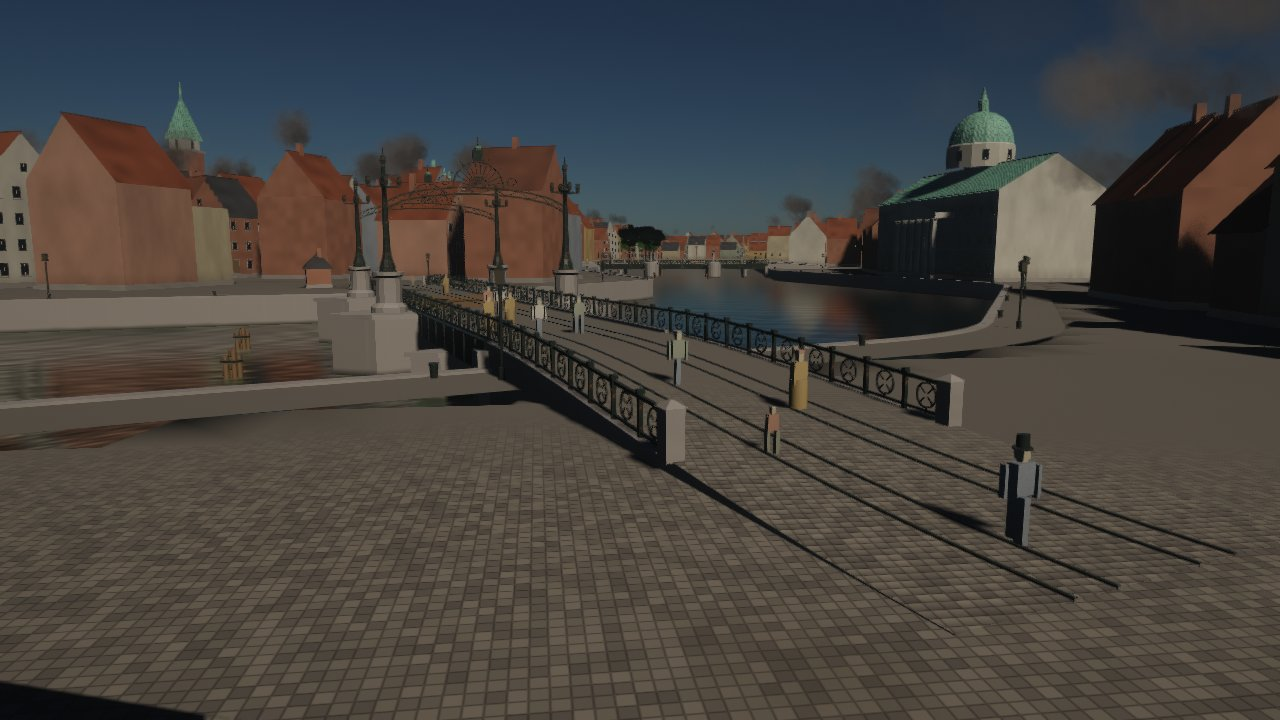
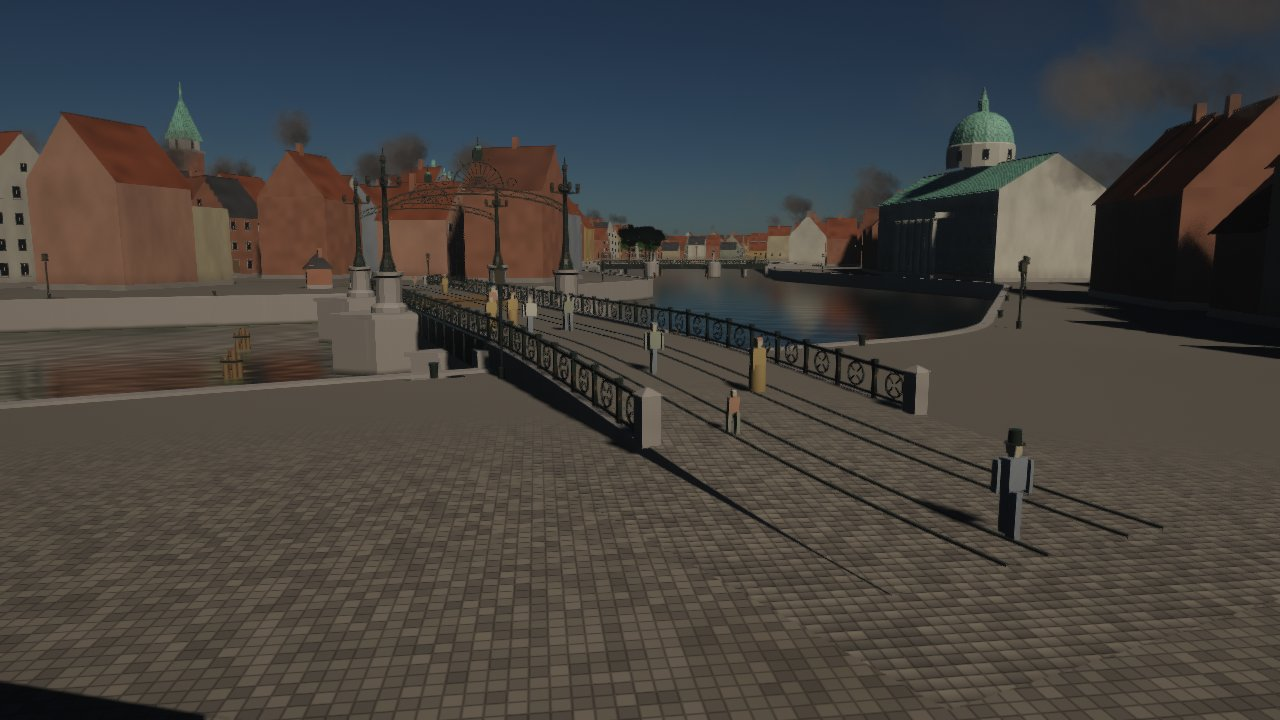
Brückenvorplätze: Auffahrten gehen ohne Zacken in Kai und Wiese über
An der Hohen Brücke endete die Auffahrt mit einem zackigen Umriss: Die
Auffahrt ragte über das Kaipflaster hinaus, das Kaipflaster endete mit einem
geraden Schnitt, und das Gelände fällt dort zur Wiese ab.

Vor jeder Auffahrt liegt jetzt ein gepflasterter Vorplatz, ein Trapez,
breit an der Kaimauer und schmal am Ende der Auffahrt, in Feldern von etwa
1 m. Er folgt demselben linearen Profil wie das Kaipflaster, liegt 3 cm
darüber und nie unter dem gezeichneten Geländenetz. Dafür rechnet
TerrainMesh.surfaceHeight die Höhe in denselben Dreiecken wie das Netz. Wo
der Platz das Kaipflaster ganz überdeckt, lässt Banks.build(Bridges) es weg.
Die Auffahrt endet quer über ihre Breite auf der Platzhöhe (der Platz fällt
oft schräg ab). Wo sie auf Platzhöhe liegt, entfällt ihr eigenes Pflaster;
das vermeidet doppelte Flächen und Schattenflecken. Site.isQuay bleibt
außen vor, weil es an der Grenze zum Wiesenufer springt und den Platz
treppig machte.

Claude-Session: https://claude.ai/code/session_011MTtUMHyAnSZggazDGs4wt

diff --git a/src/com/dan/kneiphof/world/Bridges.java b/src/com/dan/kneiphof/world/Bridges.java
@@ -27,7 +27,8 @@ import java.util.List;
  *     Straßenbahn.</li>
  * </ul>
  * <p>Die Auffahrten gehen ohne Stufe in die Straße über: Ihr Längsschnitt folgt einer Kosinuskurve von der
- * Fahrbahn bis zur Geländehöhe am Ende, beide Enden also ohne Knick.</p>
+ * Fahrbahn bis zur Geländehöhe am Ende, beide Enden also ohne Knick. Vor jeder Auffahrt liegt ein gepflasterter
+ * Vorplatz, der Auffahrt und Kaipflaster zu einem Umriss zusammenfasst.</p>
  */
 public final class Bridges {
     /** Länge einer Klappe, Lücke dazwischen, Schwanzlänge hinter dem Drehpunkt. */
@@ -61,6 +62,8 @@ public final class Bridges {
         public double cx, cz, angle, c, s, sMin, sMax, width, deck;
         /** Länge der Auffahrt hinter dem Ufer e (0: −u, 1: +u) und Geländehöhe an ihrem Ende. */
         public final double[] ramp = new double[2], land = new double[2];
+        /** Höhe am Ende der Auffahrt quer über die Fahrbahn, in END Stücken von −width/2 bis +width/2. */
+        final double[][] landAcross = new double[2][END + 1];
         public final MeshBuilder leaf = new MeshBuilder();
         /** Drehpunkte der beiden Klappen (x, y, z) und Drehung um die Hochachse. */
         public final double[][] pivot = new double[2][3];
@@ -76,6 +79,39 @@ public final class Bridges {
             double f = Math.min(1, Math.abs(u - (e == 0 ? sMin : sMax)) / ramp[e]);
             return deck + (land[e] - deck) * (0.5 - 0.5 * Math.cos(Math.PI * f));
         }
+
+        /**
+         * Höhe des Pflasters der Auffahrt bei (u, w): die Kurve, aber nie unter dem gezeichneten Gelände. Das Netz
+         * des Geländes ist grob und liegt zwischen seinen Punkten stellenweise höher als Site.height; ohne diese
+         * Grenze schnitte es das Pflaster am Ende der Auffahrt zackig ab.
+         */
+        public double rampSurface(double u, double w) {
+            if (u >= sMin && u <= sMax) return deck;
+            int e = u < sMin ? 0 : 1;
+            double f = Math.min(1, Math.abs(u - (e == 0 ? sMin : sMax)) / ramp[e]);
+            // Endhöhe an dieser Stelle quer zur Fahrbahn: der Platz fällt dort oft schräg ab
+            double k = Math.max(0, Math.min(END, (w / width + 0.5) * END));
+            int i = Math.min(END - 1, (int) k);
+            double end = landAcross[e][i] + (landAcross[e][i + 1] - landAcross[e][i]) * (k - i);
+            double y = deck + (end - deck) * (0.5 - 0.5 * Math.cos(Math.PI * f));
+            return Math.max(y, plazaHeight(wx(u, w), wz(u, w)) + LIP);
+        }
+
+        /** Liegt (x, z) auf einem der beiden Brückenvorplätze? */
+        public boolean onPlaza(double x, double z) {
+            double u = (x - cx) * c + (z - cz) * s, w = -(x - cx) * s + (z - cz) * c;
+            for (int e = 0; e < 2; e++) {
+                double sShore = e == 0 ? sMin : sMax, t = (e == 0 ? -1 : 1) * (u - sShore);
+                if (t >= PLAZA_IN && t <= ramp[e] + PLAZA_OUT && Math.abs(w) <= plazaHalf(e, t)) return true;
+            }
+            return false;
+        }
+
+        /** Halbe Breite des Vorplatzes am Ufer e im Abstand t vom Ufer: breit an der Mauer, schmal am Ende. */
+        double plazaHalf(int e, double t) {
+            double f = Math.max(0, Math.min(1, (t - PLAZA_IN) / (ramp[e] + PLAZA_OUT - PLAZA_IN)));
+            return width / 2 + 5.0 - 3.5 * f;
+        }
     }
 
     private static final String[] NAMES = {"Krämerbrücke", "Schmiedebrücke", "Holzbrücke", "Grüne Brücke", "Köttelbrücke", "Honigbrücke", "Hohe Brücke"};
@@ -85,8 +121,36 @@ public final class Bridges {
     private static final double[] TWO_TRACKS = {-2.05, -1.05, 1.05, 2.05}, ONE_TRACK = {-0.5, 0.5}, NO_TRACK = {};
     /** Länge des Klappenpfeilers vom Drehpunkt landwärts. */
     private static final double PIER = 4.6;
-    /** Die Auffahrt endet so viel über dem Gelände, damit sich die Flächen nicht durchdringen. */
+    /** Die Auffahrt endet so viel über dem Vorplatz, damit sich die Flächen nicht durchdringen. */
     private static final double LIP = 0.02;
+    /** Stücke quer über das Ende der Auffahrt. */
+    private static final int END = 8;
+    /** Vorplatz: beginnt so weit hinter der Uferlinie und reicht so weit über das Ende der Auffahrt hinaus. */
+    private static final double PLAZA_IN = 0.7, PLAZA_OUT = 2.5;
+
+    /**
+     * Höhe des Pflasters auf einem Brückenvorplatz, 3 cm über dem Kaipflaster und nie unter dem gezeichneten Gelände.
+     * Nahe am Wasser folgt der Platz demselben Profil wie das Kaipflaster in {@link Banks}: linear von der Kaikante
+     * (Landhöhe) bis zur Außenkante, wo es auf dem Gelände aufliegt. Am Wiesenufer der Lomse liegt das Gelände dort
+     * tiefer als die Landhöhe; folgte der Platz einer anderen Kurve, stäche das Kaipflaster in Zacken durch ihn.
+     */
+    static double plazaHeight(double x, double z) {
+        double wd = Site.water(x, z), far = Site.QUAY_SINK + TerrainMesh.cellDiagonal(x, z) + 0.6, y;
+        if (wd < far) {
+            // Außenkante des Kaipflasters: vom Punkt in Richtung des wachsenden Uferabstands bis zum Abstand far
+            double gx = Site.water(x + 0.5, z) - Site.water(x - 0.5, z), gz = Site.water(x, z + 0.5) - Site.water(x, z - 0.5);
+            double gl = Math.max(1e-6, Math.hypot(gx, gz)), d = far - wd;
+            double outer = Site.height(x + gx / gl * d, z + gz / gl * d) + 0.03, inner = Site.land(x, z) + 0.07;
+            double t = Math.max(0, Math.min(1, (wd - 0.62) / (far - 0.62)));
+            y = inner + (outer - inner) * t;
+        } else y = Site.height(x, z) + 0.03;
+        return Math.max(y, TerrainMesh.surfaceHeight(x, z) + 0.03) + 0.03;
+    }
+
+    /** Darf hier Platz sein: auf Land (am Wiesenufer liegt er dann auf dem Gelände auf). */
+    private static boolean plazaGround(double x, double z) {
+        return Site.water(x, z) >= PLAZA_IN;
+    }
 
     private static Look look(int i) {
         switch (i) {
@@ -147,10 +211,14 @@ public final class Bridges {
             double h = e == 0 ? hA : hB, lr = 10;
             for (int k = 0; k < 3; k++) {
                 lr = Math.max(10, Math.min(40, Math.abs(b.deck - h) / 0.05));
-                h = Site.height(b.wx(sShore + dir * lr, 0), b.wz(sShore + dir * lr, 0));
+                h = plazaHeight(b.wx(sShore + dir * lr, 0), b.wz(sShore + dir * lr, 0));
             }
             b.ramp[e] = lr;
-            b.land[e] = h + LIP;
+            for (int k = 0; k <= END; k++) {
+                double w = -width / 2 + width * k / END;
+                b.landAcross[e][k] = plazaHeight(b.wx(sShore + dir * lr, w), b.wz(sShore + dir * lr, w)) + LIP;
+            }
+            b.land[e] = b.landAcross[e][END / 2];
         }
         return b;
     }
@@ -201,18 +269,29 @@ public final class Bridges {
         Look lk = b.look;
         double sShore = e == 0 ? b.sMin : b.sMax, lr = b.ramp[e];
         int dir = e == 0 ? -1 : 1;                                   // vom Wasser weg
-        double yb = Math.min(b.land[e], y) - 1.4;
+        double yb = y;
+        for (double h : b.landAcross[e]) yb = Math.min(yb, h);
+        yb -= 1.6;
         int n = Math.max(8, (int) Math.ceil(lr / 1.5));
         double[] dW = o.dir(0, 1);
         double railEnd = sShore;                                     // Geländer bis hier (Damm noch über 0,35 m)
+        // Pflaster in Feldern von höchstens 1,5 m längs und quer, damit es dem Gelände am Ende folgen kann
+        int cols = Math.max(2, (int) Math.ceil(2 * hw / 1.5));
         for (int k = 0; k < n; k++) {
             double ua = sShore + dir * lr * k / n, ub = sShore + dir * lr * (k + 1) / n;
-            double ya = b.surface(ua), yc = b.surface(ub);
-            Banks.facing(m, o.p(ua, ya, -hw), o.p(ub, yc, -hw), o.p(ub, yc, hw), o.p(ua, ya, hw), 0, 0, Material.COBBLE, ua * dir, -hw, 1, 1, true);
-            for (double w : lk.rails) slat(o, ua, ya + 0.005, ub, yc + 0.005, w, 0.035);
-            for (int sd = -1; sd <= 1; sd += 2)
+            for (int q = 0; q < cols; q++) {
+                double w0 = -hw + 2 * hw * q / cols, w1 = -hw + 2 * hw * (q + 1) / cols;
+                // Liegt die Auffahrt hier schon auf dem Vorplatz, trägt der Platz das Pflaster (keine Doppelfläche)
+                if (onPlazaLevel(b, ua, w0) && onPlazaLevel(b, ub, w0) && onPlazaLevel(b, ua, w1) && onPlazaLevel(b, ub, w1)) continue;
+                Banks.facing(m, o.p(ua, b.rampSurface(ua, w0), w0), o.p(ub, b.rampSurface(ub, w0), w0), o.p(ub, b.rampSurface(ub, w1), w1),
+                        o.p(ua, b.rampSurface(ua, w1), w1), 0, 0, Material.COBBLE, ua * dir, w0, 1, 1, true);
+            }
+            for (double w : lk.rails) slat(o, ua, b.rampSurface(ua, w) + 0.005, ub, b.rampSurface(ub, w) + 0.005, w, 0.035);
+            for (int sd = -1; sd <= 1; sd += 2) {
+                double ya = b.rampSurface(ua, sd * hw), yc = b.rampSurface(ub, sd * hw);
                 Banks.facing(m, o.p(ua, yb, sd * hw), o.p(ub, yb, sd * hw), o.p(ub, yc, sd * hw), o.p(ua, ya, sd * hw), sd * dW[0], sd * dW[1], Material.QUAY, ua * dir, yb, 0.8, 1);
-            if (ya - b.land[e] > 0.35) railEnd = ub;
+            }
+            if (b.surface(ua) - b.land[e] > 0.35) railEnd = ub;
         }
         // Deckplatte auf den Stützmauern, so weit das Geländer reicht: Granit, folgt dem Damm
         int nc = Math.max(1, (int) Math.ceil(Math.abs(railEnd - sShore) / 1.5));
@@ -221,6 +300,7 @@ public final class Bridges {
                 double ua = sShore + (railEnd - sShore) * k / nc, ub = sShore + (railEnd - sShore) * (k + 1) / nc;
                 slatM(o, ua, b.surface(ua) - 0.06, ub, b.surface(ub) - 0.06, sd * (hw + 0.02), 0.09, Material.GRANITE);
             }
+        plaza(b, o, e);
         // Widerlager im Wasser: Granit vom Grund bis unter die Fahrbahn
         double wa = dir < 0 ? sShore - 0.2 : sShore - 0.9, wb = dir < 0 ? sShore + 0.9 : sShore + 0.2;
         o.box(wa, -hw - 0.5, wb, hw + 0.5, -2.8, y - 0.36, Material.QUAY, 0.8);
@@ -248,6 +328,37 @@ public final class Bridges {
         }
         // Wärterhäuschen auf der Seite des Ufers mit dem ersten Wasserlauf
         if (e == 0) keeperHouse(b, o, sShore - lr - 3.0, hw + 3.2);
+    }
+
+    /**
+     * Brückenvorplatz am Ufer e: ein Trapez aus Pflaster vor der Auffahrt, an der Kaimauer breit und am Ende der
+     * Auffahrt schmal, in Feldern von etwa 1 m auf das Gelände gelegt. Er fasst Auffahrt und Kaipflaster zu einem
+     * Umriss zusammen; über dem Wasser bleibt er aus.
+     */
+    private void plaza(Bridge b, Obj o, int e) {
+        double sShore = e == 0 ? b.sMin : b.sMax, len = b.ramp[e] + PLAZA_OUT - PLAZA_IN;
+        int dir = e == 0 ? -1 : 1;
+        int nu = (int) Math.ceil(len), nw = (int) Math.ceil(2 * b.plazaHalf(e, PLAZA_IN));
+        double[][][] p = new double[nu + 1][nw + 1][];
+        boolean[][] ok = new boolean[nu + 1][nw + 1];
+        for (int i = 0; i <= nu; i++) {
+            double t = PLAZA_IN + len * i / nu, u = sShore + dir * t, half = b.plazaHalf(e, t);
+            for (int j = 0; j <= nw; j++) {
+                double w = -half + 2 * half * j / nw, x = o.wx(u, w), z = o.wz(u, w);
+                p[i][j] = new double[]{x, plazaHeight(x, z), z};
+                ok[i][j] = plazaGround(x, z);
+            }
+        }
+        for (int i = 0; i < nu; i++)
+            for (int j = 0; j < nw; j++)
+                if (ok[i][j] && ok[i + 1][j] && ok[i][j + 1] && ok[i + 1][j + 1])
+                    Banks.facing(o.m, p[i][j], p[i + 1][j], p[i + 1][j + 1], p[i][j + 1], 0, 0, Material.COBBLE, i, j, 1, 1, true);
+    }
+
+    /** Liegt die Auffahrt bei (u, w) auf Höhe des Vorplatzes, der dort auch liegt? */
+    private static boolean onPlazaLevel(Bridge b, double u, double w) {
+        double x = b.wx(u, w), z = b.wz(u, w);
+        return b.onPlaza(x, z) && b.rampSurface(u, w) <= plazaHeight(x, z) + LIP + 1e-6;
     }
 
     /** Geländer auf der Auffahrt in der Art der Brücke, Feld für Feld der Kurve folgend. */

diff --git a/src/com/dan/kneiphof/world/Banks.java b/src/com/dan/kneiphof/world/Banks.java
@@ -160,7 +160,10 @@ public final class Banks {
     // ------------------------------------------------------------------ Netz
 
     /** Baut Kaimauern, Decksteine, Kaipflaster, Poller, Laternen und Dalben. */
-    public MeshBuilder build() {
+    public MeshBuilder build() { return build(null); }
+
+    /** Wie {@link #build()}; wo die Brückenvorplätze das Kaipflaster ganz überdecken, entfällt es. */
+    public MeshBuilder build(Bridges bridges) {
         MeshBuilder m = new MeshBuilder();
         lanterns.clear();
         for (Line L : lines) {
@@ -193,7 +196,8 @@ public final class Banks {
                 double[] pa = {x0 + nx0 * dep, h0 + 0.02, z0 + nz0 * dep}, pb = {x1 + nx1 * dep, h1 + 0.02, z1 + nz1 * dep};
                 double[] qa = {x0 + nx0 * far0, Site.height(x0 + nx0 * far0, z0 + nz0 * far0) + 0.03, z0 + nz0 * far0};
                 double[] qb = {x1 + nx1 * far1, Site.height(x1 + nx1 * far1, z1 + nz1 * far1) + 0.03, z1 + nz1 * far1};
-                facing(m, pa, pb, qb, qa, 0, 0, Material.COBBLE, 0, 0, 0.9, 1, true);
+                if (bridges == null || !underPlaza(bridges, pa, pb, qb, qa))
+                    facing(m, pa, pb, qb, qa, 0, 0, Material.COBBLE, 0, 0, 0.9, 1, true);
 
                 // Ausstattung
                 double mx = (x0 + x1) / 2, mz = (z0 + z1) / 2, mnx = (nx0 + nx1) / 2, mnz = (nz0 + nz1) / 2;
@@ -219,6 +223,16 @@ public final class Banks {
             }
         }
         return m;
+    }
+
+    /** Liegen alle Ecken auf demselben Brückenvorplatz? */
+    private static boolean underPlaza(Bridges bridges, double[]... corners) {
+        for (Bridges.Bridge b : bridges.list) {
+            boolean all = true;
+            for (double[] c : corners) if (!b.onPlaza(c[0], c[2])) { all = false; break; }
+            if (all) return true;
+        }
+        return false;
     }
 
     /** Gaslaterne: Sockel, Mast, Laternenkopf mit Glas (leuchtet nachts), kleine Haube. */

diff --git a/src/com/dan/kneiphof/world/TerrainMesh.java b/src/com/dan/kneiphof/world/TerrainMesh.java
@@ -112,6 +112,43 @@ public final class TerrainMesh {
         return Math.hypot(k * (a + 3 * (1 - a) * tx * tx), k * (a + 3 * (1 - a) * tz * tz));
     }
 
+    private static double[] grid;
+
+    /**
+     * Höhe des Geländes, wie das Netz mit SIZE Punkten sie zeichnet: Site.height an den Gitterpunkten, dazwischen
+     * linear in denselben zwei Dreiecken je Masche wie im Netz. Sie kann über Site.height liegen; wer etwas
+     * bündig auf das Gelände legen will, braucht diese Höhe.
+     */
+    public static double surfaceHeight(double x, double z) {
+        double[] g = grid;
+        if (g == null) {
+            g = new double[SIZE];
+            for (int i = 0; i < SIZE; i++) g[i] = warp(i / (SIZE - 1.0) * 2 - 1) * Site.EXTENT;
+            grid = g;
+        }
+        if (Math.abs(x) >= Site.EXTENT || Math.abs(z) >= Site.EXTENT) return Site.height(x, z);
+        int i = cell(g, x), j = cell(g, z);
+        double fx = (x - g[i]) / (g[i + 1] - g[i]), fz = (z - g[j]) / (g[j + 1] - g[j]);
+        // Dreiecke wie oben: (a, c, b) und (b, c, d) mit a = (i, j), b = (i+1, j), c = (i, j+1), d = (i+1, j+1)
+        double hb = Site.height(g[i + 1], g[j]), hc = Site.height(g[i], g[j + 1]);
+        if (fx + fz <= 1) {
+            double ha = Site.height(g[i], g[j]);
+            return ha + fx * (hb - ha) + fz * (hc - ha);
+        }
+        double hd = Site.height(g[i + 1], g[j + 1]);
+        return hd + (1 - fx) * (hc - hd) + (1 - fz) * (hb - hd);
+    }
+
+    /** Index der Masche, die v enthält (g aufsteigend). */
+    private static int cell(double[] g, double v) {
+        int lo = 0, hi = g.length - 2;
+        while (lo < hi) {
+            int mid = (lo + hi + 1) >>> 1;
+            if (g[mid] <= v) lo = mid; else hi = mid - 1;
+        }
+        return lo;
+    }
+
     /** Maschenweite in der Mitte in Metern. */
     public double centerSpacing() { return warp(2.0 / (n - 1)) * Site.EXTENT; }
 

diff --git a/src/com/dan/kneiphof/tools/FrameDump.java b/src/com/dan/kneiphof/tools/FrameDump.java
@@ -71,8 +71,8 @@ public final class FrameDump {
         }
         MeshBuilder tb = Testbed.build();
         com.dan.kneiphof.world.Banks banks = new com.dan.kneiphof.world.Banks();
-        tb.append(banks.build());
         com.dan.kneiphof.world.Bridges bridges = new com.dan.kneiphof.world.Bridges();
+        tb.append(banks.build(bridges));
         tb.append(bridges.statics);
         double open = Double.parseDouble(System.getProperty("open", "0"));
         tb.append(bridges.bake(open));
@@ -214,6 +214,7 @@ public final class FrameDump {
                 {"kai_loch_gruene", 172, 15.0, BE(3, 1, 10)[0], BE(3, 1, 10)[1], BE(3, 1, 10)[2], BE(3, 1, 10)[3] - 70.0, 25.0, 30.0},
                 {"kai_loch_hohe", 172, 15.0, BE(6, 0, 8)[0], BE(6, 0, 8)[1], BE(6, 0, 8)[2], BE(6, 0, 8)[3], 35.0, 40.0},
                 {"kai_loch_hohe_b", 172, 15.0, BE(6, 1, 8)[0], BE(6, 1, 8)[1], BE(6, 1, 8)[2], BE(6, 1, 8)[3], 35.0, 40.0},
+                {"kai_loch_hohe_c", 172, 15.0, BE(6, 1, 6)[0], BE(6, 1, 6)[1], BE(6, 1, 6)[2], BE(6, 1, 6)[3] + 40.0, 14.0, 24.0},
                 {"br_koettel", 172, 15.0, BR(4)[0], BR(4)[1], BR(4)[2], BR(4)[3], 14.0, 70.0},
                 {"br_honig", 172, 15.0, BR(5)[0], BR(5)[1], BR(5)[2], BR(5)[3], 14.0, 55.0},
                 {"br_hohe", 172, 15.0, BR(6)[0], BR(6)[1], BR(6)[2], BR(6)[3], 14.0, 80.0},

diff --git a/src/com/dan/kneiphof/gl/Renderer.java b/src/com/dan/kneiphof/gl/Renderer.java
@@ -127,10 +127,10 @@ public final class Renderer implements GLEventListener {
             vorabSchritt = 0;
             vorabText = "Ufer und Kaimauern";
             banks = new Banks();
-            banksMesh = banks.build();
+            bridges = new Bridges();
+            banksMesh = banks.build(bridges);
             vorabSchritt = 1;
             vorabText = "Brücken, Schiffe und Fußgänger";
-            bridges = new Bridges();
             boats.attach(bridges);
             people = new People(bridges);
             vorabSchritt = 2;

diff --git a/README.md b/README.md
@@ -129,6 +129,10 @@ Vor den Durchfahrten stehen Dalben aus Pfahlbündeln wie auf den Fotos.
 
 Die Auffahrten gehen ohne Stufe in die Straße über. Ihr Längsschnitt folgt einer Kosinuskurve von der Fahrbahn bis zur Geländehöhe am Auffahrtsende, ohne Knick an beiden Enden. Fußgänger gehen auf derselben Kurve. Die Stufe hatte zwei Ursachen. Hinter den Kaimauern sackte das Gelände ab 8 m Abstand vom Wasser in eine Mulde, weil `Site.height` dort von der Kai- auf die Wiesenformel umschaltete. Und die Auffahrt endete auf der Höhe, die 6 m hinter dem Ufer gemessen war, also über dieser Mulde. Jetzt bleibt das Pflaster hinter den Kaimauern eben, und die Auffahrt endet auf der Geländehöhe, die an ihrem Ende tatsächlich gilt.
 
+![Vorplatz der Hohen Brücke: vom Kai zur Wiese](docs/bilder/p14_hohe_vorplatz.jpg)
+
+Vor jeder Auffahrt liegt ein gepflasterter Brückenvorplatz: an der Kaimauer breit, am Ende der Auffahrt schmal. Er fasst Auffahrt und Kaipflaster zu einem Umriss zusammen. Er folgt demselben Profil wie das Kaipflaster, liegt 3 cm darüber und nie unter dem gezeichneten Geländenetz (`TerrainMesh.surfaceHeight`). Das Netz ist grob und liegt zwischen seinen Punkten stellenweise höher als `Site.height`. Die Auffahrt endet quer über ihre ganze Breite auf der Höhe des Platzes; an der Hohen Brücke fällt der Platz dort schräg zur Wiese ab. Das Kaipflaster reicht so weit ins Land, wie die Senke hinter der Mauer im groben Geländenetz reichen kann, damit dahinter keine Löcher klaffen.
+
 ## Bedienung
 
 | Eingabe | Wirkung |
